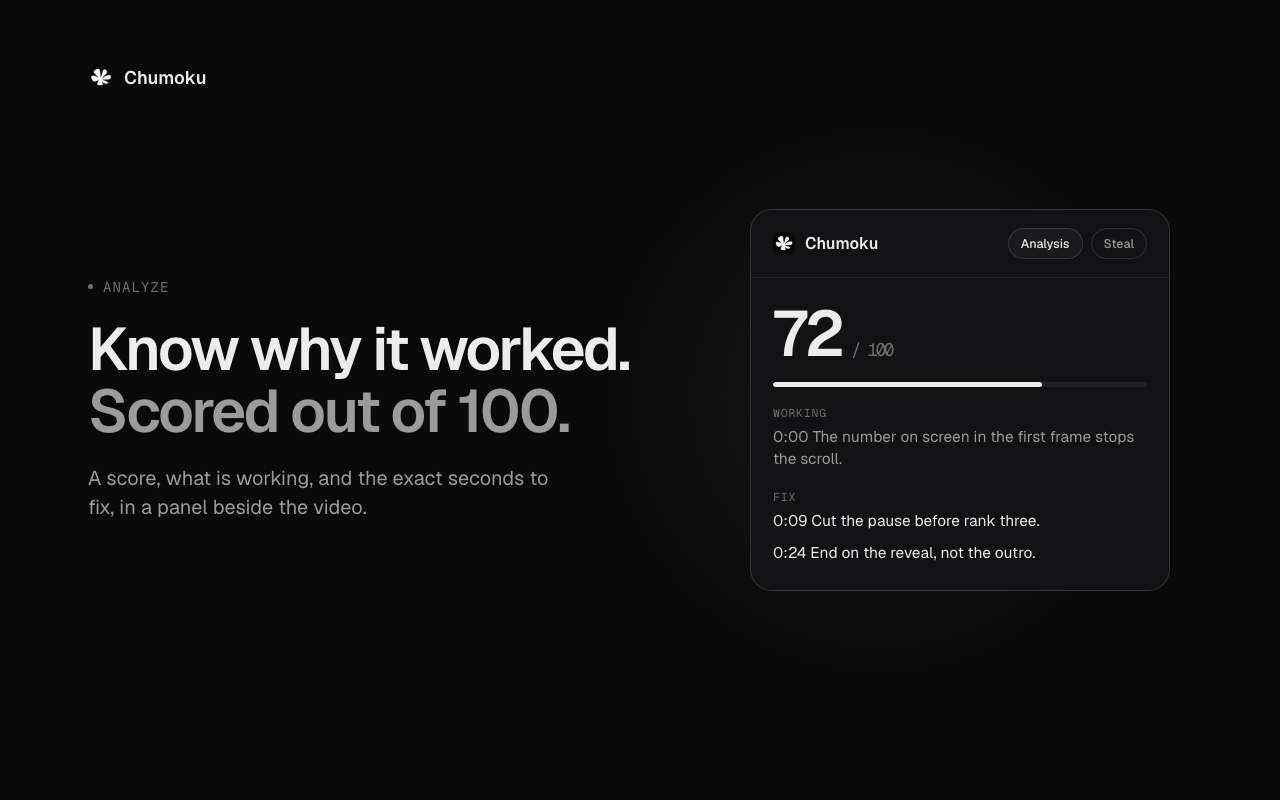
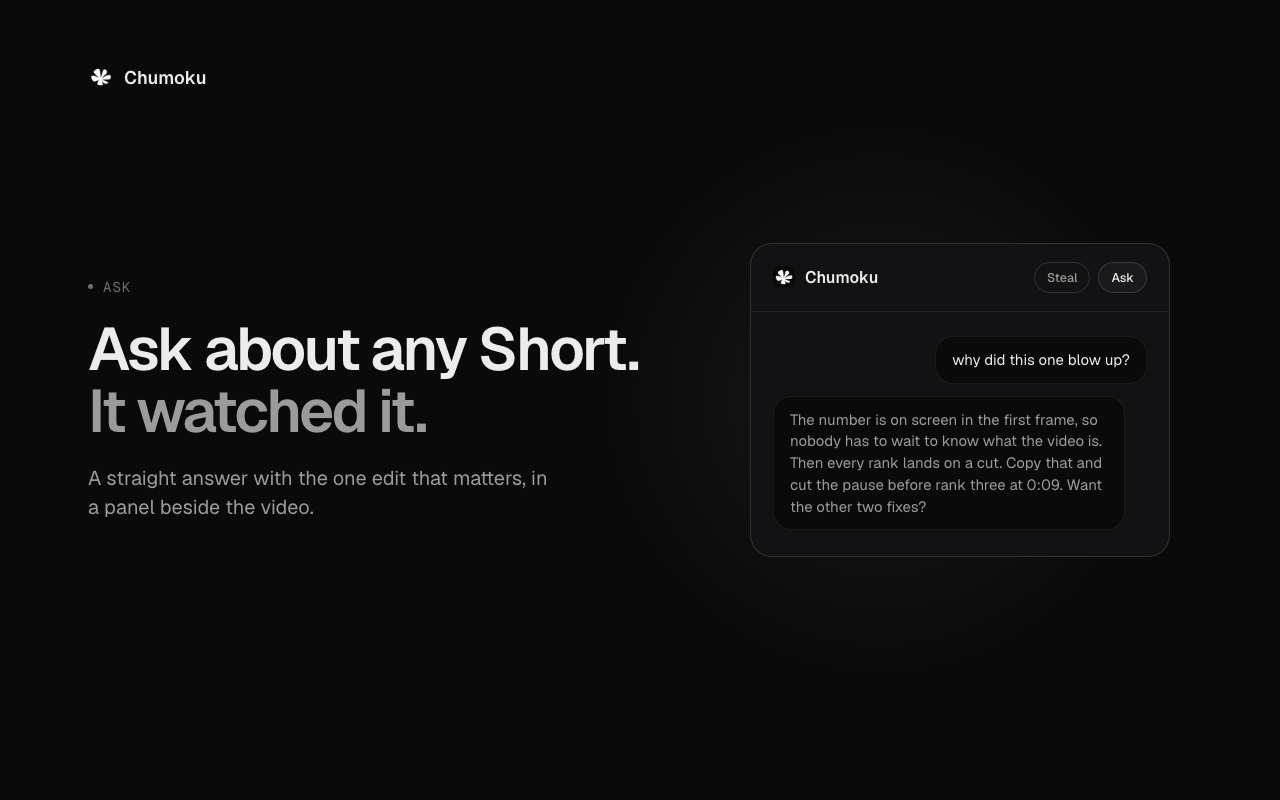
Extension 0.3.0: Analyze becomes Ask, Steal comes first
Labels, icon (a speech bubble), popup, context menu, shortcuts, welcome
page, store screenshots and listing copy. The action id stays 'analyze'
because the app and the panel key on it.

diff --git a/extension/store/shot-4.html b/extension/store/shot-4.html
@@ -1,7 +1,7 @@
 <!doctype html><html><head><meta charset="utf-8"><title>Side panel</title><link rel="stylesheet" href="store.css"></head><body><div class="frame"><div class="brand"><img src="../icons/icon-128.png" alt="">Chumoku</div>
 <div><p class="eyebrow"><span class="dot"></span>Side panel</p><h1>Beside the video.<span class="dim">No new tab.</span></h1><p class="sub">Keep scrolling. Results open in Chrome's side panel and stay in your account.</p></div>
-<div class="visual"><div class="stack"><div class="plate btn-stage"><span class="stage-label">On YouTube</span><div class="big-pills"><span class="big-pill"><svg viewBox="0 0 24 24" fill="none" stroke="currentColor" stroke-width="1.8" stroke-linecap="round" stroke-linejoin="round"><circle cx="11" cy="11" r="7"/><path d="m20 20-3.5-3.5"/><path d="M8 12.5l2-2.5 2 1.5 2-3"/></svg>Analyze</span><span class="big-pill primary"><svg viewBox="0 0 24 24" fill="none" stroke="currentColor" stroke-width="1.8" stroke-linecap="round" stroke-linejoin="round"><rect x="8" y="8" width="12" height="12" rx="2.5"/><path d="M16 8V6.5A2.5 2.5 0 0 0 13.5 4h-7A2.5 2.5 0 0 0 4 6.5v7A2.5 2.5 0 0 0 6.5 16H8"/><path d="M14 11.5v5M11.5 14h5"/></svg>Steal</span></div></div><div class="plate panel">
-  <div class="panel-head"><span><img src="../icons/icon-128.png" alt="">Chumoku</span><div class="chips"><span class="chip">Analysis</span><span class="chip on">Steal</span></div></div>
+<div class="visual"><div class="stack"><div class="plate btn-stage"><span class="stage-label">On YouTube</span><div class="big-pills"><span class="big-pill primary"><svg viewBox="0 0 24 24" fill="none" stroke="currentColor" stroke-width="1.8" stroke-linecap="round" stroke-linejoin="round"><rect x="8" y="8" width="12" height="12" rx="2.5"/><path d="M16 8V6.5A2.5 2.5 0 0 0 13.5 4h-7A2.5 2.5 0 0 0 4 6.5v7A2.5 2.5 0 0 0 6.5 16H8"/><path d="M14 11.5v5M11.5 14h5"/></svg>Steal</span><span class="big-pill"><svg viewBox="0 0 24 24" fill="none" stroke="currentColor" stroke-width="1.8" stroke-linecap="round" stroke-linejoin="round"><path d="M20 11.5a7.5 7.5 0 0 1-10.9 6.7L4 19.5l1.3-4.6A7.5 7.5 0 1 1 20 11.5z"/></svg>Ask</span></div></div><div class="plate panel">
+  <div class="panel-head"><span><img src="../icons/icon-128.png" alt="">Chumoku</span><div class="chips"><span class="chip">Ask</span><span class="chip on">Steal</span></div></div>
   <div class="panel-body">
     <p class="k">What they did</p><p class="v dim">A ranking that starts with the one everybody expects, then argues the viewer out of it.</p>
     <p class="k">Hook, 0-3s</p><p class="v">Rank the scariest mob first.</p>

diff --git a/extension/popup.html b/extension/popup.html
@@ -15,17 +15,17 @@
   <!-- On a Short: the two actions for it. -->
   <section id="on-video" class="rise" hidden>
     <p class="eyebrow"><span class="dot"></span>This Short</p>
-    <h1 class="title">Analyze it <span class="dim">or steal it.</span></h1>
+    <h1 class="title">Steal it <span class="dim">or ask about it.</span></h1>
     <p id="video-id" class="mono faint"></p>
     <div class="rows">
-      <button class="row" data-action="analyze">
-        <span class="row-icon"><svg viewBox="0 0 24 24" width="18" height="18" fill="none" stroke="currentColor" stroke-width="1.8" stroke-linecap="round" stroke-linejoin="round"><circle cx="11" cy="11" r="7"/><path d="m20 20-3.5-3.5"/><path d="M8 12.5l2-2.5 2 1.5 2-3"/></svg></span>
-        <span class="row-body"><span class="row-title">Analyze</span><span class="row-sub">Why it worked, out of 100</span></span>
-        <span class="row-meta">5 cr</span>
-      </button>
       <button class="row row-primary" data-action="steal">
         <span class="row-icon"><svg viewBox="0 0 24 24" width="18" height="18" fill="none" stroke="currentColor" stroke-width="1.8" stroke-linecap="round" stroke-linejoin="round"><rect x="8" y="8" width="12" height="12" rx="2.5"/><path d="M16 8V6.5A2.5 2.5 0 0 0 13.5 4h-7A2.5 2.5 0 0 0 4 6.5v7A2.5 2.5 0 0 0 6.5 16H8"/><path d="M14 11.5v5M11.5 14h5"/></svg></span>
         <span class="row-body"><span class="row-title">Steal</span><span class="row-sub">Its format, rebuilt for you</span></span>
+        <span class="row-meta">5 cr</span>
+      </button>
+      <button class="row" data-action="analyze">
+        <span class="row-icon"><svg viewBox="0 0 24 24" width="18" height="18" fill="none" stroke="currentColor" stroke-width="1.8" stroke-linecap="round" stroke-linejoin="round"><path d="M20 11.5a7.5 7.5 0 0 1-10.9 6.7L4 19.5l1.3-4.6A7.5 7.5 0 1 1 20 11.5z"/></svg></span>
+        <span class="row-body"><span class="row-title">Ask</span><span class="row-sub">Talk it through with Chumoku</span></span>
         <span class="row-meta">5 cr</span>
       </button>
     </div>
@@ -40,7 +40,7 @@
     </div>
     <p id="link-error" class="error" hidden>That doesn't look like a YouTube link.</p>
     <div class="pair">
-      <button class="btn" data-action="analyze">Analyze</button>
+      <button class="btn" data-action="analyze">Ask</button>
       <button class="btn btn-primary" data-action="steal">Steal</button>
     </div>
   </section>

diff --git a/extension/store/shot-1.html b/extension/store/shot-1.html
@@ -1,3 +1,3 @@
 <!doctype html><html><head><meta charset="utf-8"><title>Chrome extension</title><link rel="stylesheet" href="store.css"></head><body><div class="frame"><div class="brand"><img src="../icons/icon-128.png" alt="">Chumoku</div>
-<div><p class="eyebrow"><span class="dot"></span>Chrome extension</p><h1>Two buttons<span class="dim">on every Short.</span></h1><p class="sub">Analyze why it worked, or steal its format for your channel. Right above Like.</p></div>
-<div class="visual"><div class="plate btn-stage"><span class="stage-label">On YouTube</span><div class="big-pills"><span class="big-pill"><svg viewBox="0 0 24 24" fill="none" stroke="currentColor" stroke-width="1.8" stroke-linecap="round" stroke-linejoin="round"><circle cx="11" cy="11" r="7"/><path d="m20 20-3.5-3.5"/><path d="M8 12.5l2-2.5 2 1.5 2-3"/></svg>Analyze</span><span class="big-pill primary"><svg viewBox="0 0 24 24" fill="none" stroke="currentColor" stroke-width="1.8" stroke-linecap="round" stroke-linejoin="round"><rect x="8" y="8" width="12" height="12" rx="2.5"/><path d="M16 8V6.5A2.5 2.5 0 0 0 13.5 4h-7A2.5 2.5 0 0 0 4 6.5v7A2.5 2.5 0 0 0 6.5 16H8"/><path d="M14 11.5v5M11.5 14h5"/></svg>Steal</span></div></div></div></div></body></html>
+<div><p class="eyebrow"><span class="dot"></span>Chrome extension</p><h1>Two buttons<span class="dim">on every Short.</span></h1><p class="sub">Steal its format for your channel, or ask Chumoku about it. Right above Like.</p></div>
+<div class="visual"><div class="plate btn-stage"><span class="stage-label">On YouTube</span><div class="big-pills"><span class="big-pill primary"><svg viewBox="0 0 24 24" fill="none" stroke="currentColor" stroke-width="1.8" stroke-linecap="round" stroke-linejoin="round"><rect x="8" y="8" width="12" height="12" rx="2.5"/><path d="M16 8V6.5A2.5 2.5 0 0 0 13.5 4h-7A2.5 2.5 0 0 0 4 6.5v7A2.5 2.5 0 0 0 6.5 16H8"/><path d="M14 11.5v5M11.5 14h5"/></svg>Steal</span><span class="big-pill"><svg viewBox="0 0 24 24" fill="none" stroke="currentColor" stroke-width="1.8" stroke-linecap="round" stroke-linejoin="round"><path d="M20 11.5a7.5 7.5 0 0 1-10.9 6.7L4 19.5l1.3-4.6A7.5 7.5 0 1 1 20 11.5z"/></svg>Ask</span></div></div></div></div></body></html>

diff --git a/extension/welcome.html b/extension/welcome.html
@@ -11,7 +11,7 @@
     <header class="w-hero">
       <p class="eyebrow rise"><span class="dot"></span>Installed</p>
       <h1 class="w-title rise" style="--d: 80ms">Two buttons on every Short.<span class="dim"> Chumoku runs the rest.</span></h1>
-      <p class="w-lead rise" style="--d: 160ms">Analyze or steal any Short you scroll past.</p>
+      <p class="w-lead rise" style="--d: 160ms">Steal any Short you scroll past, or ask Chumoku about it.</p>
       <div class="cta rise" style="--d: 240ms">
         <a class="btn btn-primary btn-lg" href="https://www.youtube.com/shorts">Try it on a Short</a>
         <a class="btn btn-lg" href="https://chumoku.co/?utm_source=extension">Open Chumoku</a>
@@ -27,8 +27,8 @@
           <div class="w-tile w-tile-center">
             <!-- The two buttons the extension adds. -->
             <div class="two-btns">
-              <span class="pill"><svg viewBox="0 0 24 24" fill="none" stroke="currentColor" stroke-width="1.8" stroke-linecap="round" stroke-linejoin="round"><circle cx="11" cy="11" r="7"/><path d="m20 20-3.5-3.5"/><path d="M8 12.5l2-2.5 2 1.5 2-3"/></svg>Analyze</span>
               <span class="pill pill-primary pulse"><svg viewBox="0 0 24 24" fill="none" stroke="currentColor" stroke-width="1.8" stroke-linecap="round" stroke-linejoin="round"><rect x="8" y="8" width="12" height="12" rx="2.5"/><path d="M16 8V6.5A2.5 2.5 0 0 0 13.5 4h-7A2.5 2.5 0 0 0 4 6.5v7A2.5 2.5 0 0 0 6.5 16H8"/><path d="M14 11.5v5M11.5 14h5"/></svg>Steal</span>
+              <span class="pill"><svg viewBox="0 0 24 24" fill="none" stroke="currentColor" stroke-width="1.8" stroke-linecap="round" stroke-linejoin="round"><path d="M20 11.5a7.5 7.5 0 0 1-10.9 6.7L4 19.5l1.3-4.6A7.5 7.5 0 1 1 20 11.5z"/></svg>Ask</span>
             </div>
           </div>
           <p class="w-step-head"><span class="n">01</span>Open any Short</p>
@@ -55,7 +55,7 @@
             </div>
           </div>
           <p class="w-step-head"><span class="n">03</span>Or skip the mouse</p>
-          <p class="w-step-sub">Alt+Shift+A analyzes, S steals.</p>
+          <p class="w-step-sub">Alt+Shift+S steals, A asks.</p>
         </div>
       </div>
     </section>

diff --git a/extension/store/shot-3.html b/extension/store/shot-3.html
@@ -1,12 +1,9 @@
-<!doctype html><html><head><meta charset="utf-8"><title>Analyze</title><link rel="stylesheet" href="store.css"></head><body><div class="frame"><div class="brand"><img src="../icons/icon-128.png" alt="">Chumoku</div>
-<div><p class="eyebrow"><span class="dot"></span>Analyze</p><h1>Know why it worked.<span class="dim">Scored out of 100.</span></h1><p class="sub">A score, what is working, and the exact seconds to fix, in a panel beside the video.</p></div>
+<!doctype html><html><head><meta charset="utf-8"><title>Ask</title><link rel="stylesheet" href="store.css"></head><body><div class="frame"><div class="brand"><img src="../icons/icon-128.png" alt="">Chumoku</div>
+<div><p class="eyebrow"><span class="dot"></span>Ask</p><h1>Ask about any Short.<span class="dim">It watched it.</span></h1><p class="sub">A straight answer with the one edit that matters, in a panel beside the video.</p></div>
 <div class="visual"><div class="plate panel">
-  <div class="panel-head"><span><img src="../icons/icon-128.png" alt="">Chumoku</span><div class="chips"><span class="chip on">Analysis</span><span class="chip">Steal</span></div></div>
-  <div class="panel-body">
-    <p class="score">72<small>/ 100</small></p>
-    <div class="bar"><b></b></div>
-    <p class="k">Working</p><p class="v dim">0:00 The number on screen in the first frame stops the scroll.</p>
-    <p class="k">Fix</p><p class="v">0:09 Cut the pause before rank three.</p>
-    <p class="v" style="margin-top:10px">0:24 End on the reveal, not the outro.</p>
+  <div class="panel-head"><span><img src="../icons/icon-128.png" alt="">Chumoku</span><div class="chips"><span class="chip">Steal</span><span class="chip on">Ask</span></div></div>
+  <div class="panel-body" style="display:flex;flex-direction:column;gap:12px">
+    <div class="bubble me">why did this one blow up?</div>
+    <div class="bubble them">The number is on screen in the first frame, so nobody has to wait to know what the video is. Then every rank lands on a cut. Copy that and cut the pause before rank three at 0:09. Want the other two fixes?</div>
   </div>
 </div></div></div></body></html>

diff --git a/extension/content.js b/extension/content.js
@@ -1,4 +1,4 @@
-// Puts Analyze and Steal on every YouTube Short, in the same column as Like,
+// Puts Steal and Ask on every YouTube Short, in the same column as Like,
 // Comment and Share, so they are where the thumb already is while scrolling.
 //
 // YouTube renders one action bar per Short in the feed
@@ -25,10 +25,10 @@
   // and an innerHTML assignment from a content script throws there.
   const SVG_NS = 'http://www.w3.org/2000/svg';
   const ICONS = {
+    // The 'analyze' action is Ask since 2026-09-30: the app stopped scoring
+    // and talks the video through instead. The id stays - the app keys on it.
     analyze: [
-      ['circle', { cx: 11, cy: 11, r: 7 }],
-      ['path', { d: 'm20 20-3.5-3.5' }],
-      ['path', { d: 'M8 12.5l2-2.5 2 1.5 2-3' }],
+      ['path', { d: 'M20 11.5a7.5 7.5 0 0 1-10.9 6.7L4 19.5l1.3-4.6A7.5 7.5 0 1 1 20 11.5z' }],
     ],
     steal: [
       ['rect', { x: 8, y: 8, width: 12, height: 12, rx: 2.5 }],
@@ -49,9 +49,9 @@
     return svg;
   }
 
-  const LABELS = { analyze: 'Analyze', steal: 'Steal' };
+  const LABELS = { analyze: 'Ask', steal: 'Steal' };
   const TITLES = {
-    analyze: 'Chumoku: why this Short worked, scored out of 100',
+    analyze: 'Chumoku: ask about this Short',
     steal: 'Chumoku: rebuild this format as an outline for your channel',
   };
 
@@ -136,7 +136,8 @@
     const g = document.createElement('div');
     g.className = `chumoku-group ${extraClass || ''}`.trim();
     g.setAttribute(MARK, '');
-    g.append(button('analyze'), button('steal'));
+    // Steal first: it is the product. Ask is the follow-up.
+    g.append(button('steal'), button('analyze'));
     return g;
   }
 

diff --git a/extension/store/promo.html b/extension/store/promo.html
@@ -1,5 +1,5 @@
 <!doctype html><html><head><meta charset="utf-8"><title>promo</title><link rel="stylesheet" href="store.css"></head><body><div class="promo">
 <div class="row"><img src="../icons/icon-128.png" alt="">Chumoku</div>
-<h2>Analyze and steal<span>any Short.</span></h2>
-<div class="pills"><span class="pill"><svg viewBox="0 0 24 24" fill="none" stroke="currentColor" stroke-width="1.8" stroke-linecap="round" stroke-linejoin="round"><circle cx="11" cy="11" r="7"/><path d="m20 20-3.5-3.5"/><path d="M8 12.5l2-2.5 2 1.5 2-3"/></svg>Analyze</span><span class="pill primary"><svg viewBox="0 0 24 24" fill="none" stroke="currentColor" stroke-width="1.8" stroke-linecap="round" stroke-linejoin="round"><rect x="8" y="8" width="12" height="12" rx="2.5"/><path d="M16 8V6.5A2.5 2.5 0 0 0 13.5 4h-7A2.5 2.5 0 0 0 4 6.5v7A2.5 2.5 0 0 0 6.5 16H8"/><path d="M14 11.5v5M11.5 14h5"/></svg>Steal</span></div>
+<h2>Steal any Short.<span>Or ask about it.</span></h2>
+<div class="pills"><span class="pill primary"><svg viewBox="0 0 24 24" fill="none" stroke="currentColor" stroke-width="1.8" stroke-linecap="round" stroke-linejoin="round"><rect x="8" y="8" width="12" height="12" rx="2.5"/><path d="M16 8V6.5A2.5 2.5 0 0 0 13.5 4h-7A2.5 2.5 0 0 0 4 6.5v7A2.5 2.5 0 0 0 6.5 16H8"/><path d="M14 11.5v5M11.5 14h5"/></svg>Steal</span><span class="pill"><svg viewBox="0 0 24 24" fill="none" stroke="currentColor" stroke-width="1.8" stroke-linecap="round" stroke-linejoin="round"><path d="M20 11.5a7.5 7.5 0 0 1-10.9 6.7L4 19.5l1.3-4.6A7.5 7.5 0 1 1 20 11.5z"/></svg>Ask</span></div>
 </div></body></html>

diff --git a/extension/store/shot-5.html b/extension/store/shot-5.html
@@ -1,7 +1,7 @@
 <!doctype html><html><head><meta charset="utf-8"><title>Chat</title><link rel="stylesheet" href="store.css"></head><body><div class="frame"><div class="brand"><img src="../icons/icon-128.png" alt="">Chumoku</div>
 <div><p class="eyebrow"><span class="dot"></span>Chat</p><h1>Ask for anything.<span class="dim">It knows you.</span></h1><p class="sub">Turn a stolen idea into a script, or ask why a Short flopped.</p></div>
 <div class="visual"><div class="plate panel">
-  <div class="panel-head"><span><img src="../icons/icon-128.png" alt="">Chumoku</span><div class="chips"><span class="chip on">Analysis</span><span class="chip">Steal</span></div></div>
+  <div class="panel-head"><span><img src="../icons/icon-128.png" alt="">Chumoku</span><div class="chips"><span class="chip">Steal</span><span class="chip on">Ask</span></div></div>
   <div class="panel-body" style="display:flex;flex-direction:column;gap:12px">
     <div class="bubble me">turn my last stolen idea into a script</div>
     <div class="bubble them"><b>Hook:</b> "I ranked every mob by how scary it is. Number one will annoy you."<br><br><b>0:03</b> Start at ten, the obvious ones, fast cuts.<br><b>0:15</b> Slow down at three and argue it.<br><b>0:24</b> Reveal number one and stop.</div>

diff --git a/extension/store/shot-2.html b/extension/store/shot-2.html
@@ -1,7 +1,7 @@
 <!doctype html><html><head><meta charset="utf-8"><title>Steal</title><link rel="stylesheet" href="store.css"></head><body><div class="frame"><div class="brand"><img src="../icons/icon-128.png" alt="">Chumoku</div>
 <div><p class="eyebrow"><span class="dot"></span>Steal</p><h1>Steal any format.<span class="dim">Keep it yours.</span></h1><p class="sub">It watches the Short and rebuilds its moves as an outline for your niche.</p></div>
 <div class="visual"><div class="plate panel">
-  <div class="panel-head"><span><img src="../icons/icon-128.png" alt="">Chumoku</span><div class="chips"><span class="chip">Analysis</span><span class="chip on">Steal</span></div></div>
+  <div class="panel-head"><span><img src="../icons/icon-128.png" alt="">Chumoku</span><div class="chips"><span class="chip">Ask</span><span class="chip on">Steal</span></div></div>
   <div class="panel-body">
     <p class="k">What they did</p><p class="v dim">A ranking that starts with the one everybody expects, then argues the viewer out of it.</p>
     <p class="k">Hook, 0-3s</p><p class="v">Rank the scariest mob first.</p>

diff --git a/extension/background.js b/extension/background.js
@@ -63,8 +63,8 @@ chrome.runtime.onInstalled.addListener((details) => {
   chrome.contextMenus.removeAll(() => {
     for (const { id, ...scope } of roots) {
       chrome.contextMenus.create({ id: `${id}:root`, title: 'Chumoku', ...scope });
-      chrome.contextMenus.create({ id: `${id}:analyze`, parentId: `${id}:root`, title: 'Analyze this Short', ...scope });
       chrome.contextMenus.create({ id: `${id}:steal`, parentId: `${id}:root`, title: 'Steal this format', ...scope });
+      chrome.contextMenus.create({ id: `${id}:analyze`, parentId: `${id}:root`, title: 'Ask about this Short', ...scope });
     }
   });
   // First install: show what it does on a real Short instead of leaving an

diff --git a/src/components/PanelPage.tsx b/src/components/PanelPage.tsx
@@ -98,7 +98,7 @@ export function PanelPage() {
           {slots.analyze && slots.steal && (['analyze', 'steal'] as Action[]).map(a => (
             <button key={a} onClick={() => setActive(a)} className="chip" data-on={active === a}
                     title={slots[a]?.url}>
-              {a === 'analyze' ? 'Analysis' : 'Steal'}
+              {a === 'analyze' ? 'Ask' : 'Steal'}
             </button>
           ))}
           <a href={`${SITE_URL}/?utm_source=extension`} target="_blank" rel="noopener"

diff --git a/extension/popup.js b/extension/popup.js
@@ -38,7 +38,7 @@ if (tabVideo) {
     send(action, `https://www.youtube.com/shorts/${id}`);
   };
   input.addEventListener('input', () => { error.hidden = true; });
-  input.addEventListener('keydown', (e) => { if (e.key === 'Enter') go('analyze'); });
+  input.addEventListener('keydown', (e) => { if (e.key === 'Enter') go('steal'); });
   offVideo.querySelectorAll('[data-action]').forEach((b) => {
     b.addEventListener('click', () => go(b.dataset.action));
   });
